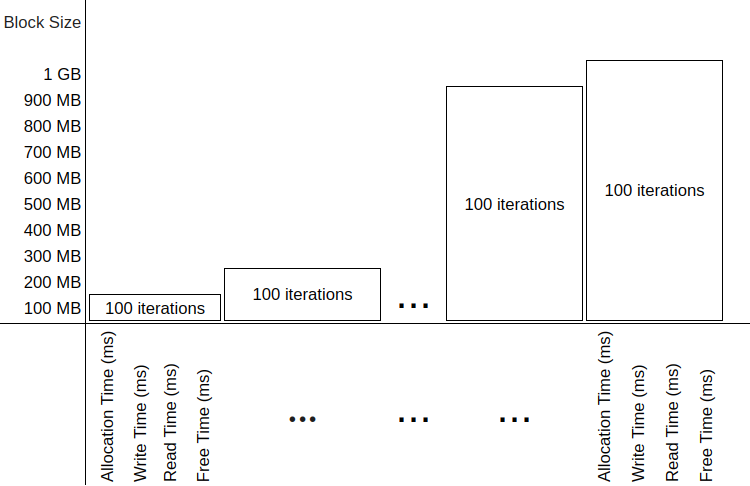
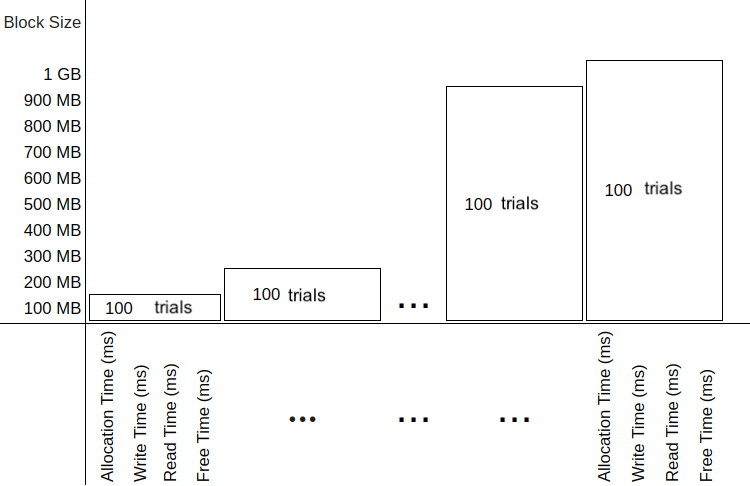
spelling mistakes corrected

diff --git a/README.md b/README.md
@@ -1007,19 +1007,19 @@ We have divided the results into three sections.
 
 ### 7.2.1. Data read from memory:
 
-The data read from memory is available from [memory-reading-result.txt](https://github.com/CAMB-DSbD/tee-morello-performance-experiments/blob/main/security-multi-compartment-performance/memory-reading-result.txt) and shows data read from memory.
+The data read from memory is available from [memory-reading-results.txt](https://github.com/CAMB-DSbD/tee-morello-performance-experiments/blob/main/security-multi-compartment-performance/memory-reading-results.txt) and shows data read from memory.
 
 The results indicate that, even when running in a multi-compartment environment, a user with root privileges is able to access data from memory. We were able to extract data, including messages and data blocks.
 
 As a specific example, we can report that the cheriBSD crashed when we tried to access the region `0xfbfdbffff000` to `0xfbfdc0000000` which is marked with `rw---`, that is, it is a protected region.
 
-We have stored some examples of data read in [memory-reading-result.txt](https://github.com/CAMB-DSbD/tee-morello-performance-experiments/blob/main/security-multi-compartment-performance/memory-reading-result.txt).
+We have stored some examples of data read in [memory-reading-results.txt](https://github.com/CAMB-DSbD/tee-morello-performance-experiments/blob/main/security-multi-compartment-performance/memory-reading-results.txt).
 
 It is sensible to think that cheriBSD blocked access to the region marked with `rw---` permission. However, the crash of cheriBSD, as a reaction, is intriguing. Further investigation is needed to fully understand the interaction between these permissions and the security policies applied to react to attempts to bypass the permissions.
 
 
 ### 8.2.2. Memory regions:
-The memory regions are available from [memory-regions-result.txt](https://github.com/CAMB-DSbD/tee-morello-performance-experiments/blob/main/security-multi-compartment-performance/memory-regions-result.txt) and show different memory regions marked with different access permissions.
+The memory regions are available from [memory-regions-results.txt](https://github.com/CAMB-DSbD/tee-morello-performance-experiments/blob/main/security-multi-compartment-performance/memory-regions-results.txt) and show different memory regions marked with different access permissions.
 
 Memory regions with `rw-RW` permissions allow read access without crashing the cheriBSD OS; in contrast, regions marked with `rw---` grant read access only to the owner process. Attempts to access these regions from a different process result in crashes; Figure 15 shows an example. The screenshot shows the content of the memory at crash time.
 
@@ -1030,13 +1030,13 @@ Memory regions with `rw-RW` permissions allow read access without crashing the c
 
 
 ### 8.2.3. Execution results:
-The execution results are available from [execution-result.txt](https://github.com/CAMB-DSbD/tee-morello-performance-experiments/blob/main/security-multi-compartment-performance/execution-result.txt) and show records of parent-child communication over a pipe.
+The execution results are available from [execution-result.txt](https://github.com/CAMB-DSbD/tee-morello-performance-experiments/blob/main/security-multi-compartment-performance/execution-results.txt) and show records of parent-child communication over a pipe.
 
 For example, line 205 (``msg received from child process TKYftt85v0l3d05SosZY1 ... iAbqS7D3VokIx'') shows the child process reading one of the strings with random characters sent by the parent process.
 
 We managed to read this string directly from memory too. 
 It is visible in the last lines of the raw version of 
-the [memory-reading-result.txt](https://github.com/CAMB-DSbD/tee-morello-performance-experiments/blob/main/security-multi-compartment-performance/memory-reading-result.txt) file.
+the [memory-reading-results.txt](https://github.com/CAMB-DSbD/tee-morello-performance-experiments/blob/main/security-multi-compartment-performance/memory-reading-results.txt) file.
 
 _________________________________________________________________________________________________________________________________________________________________
 
